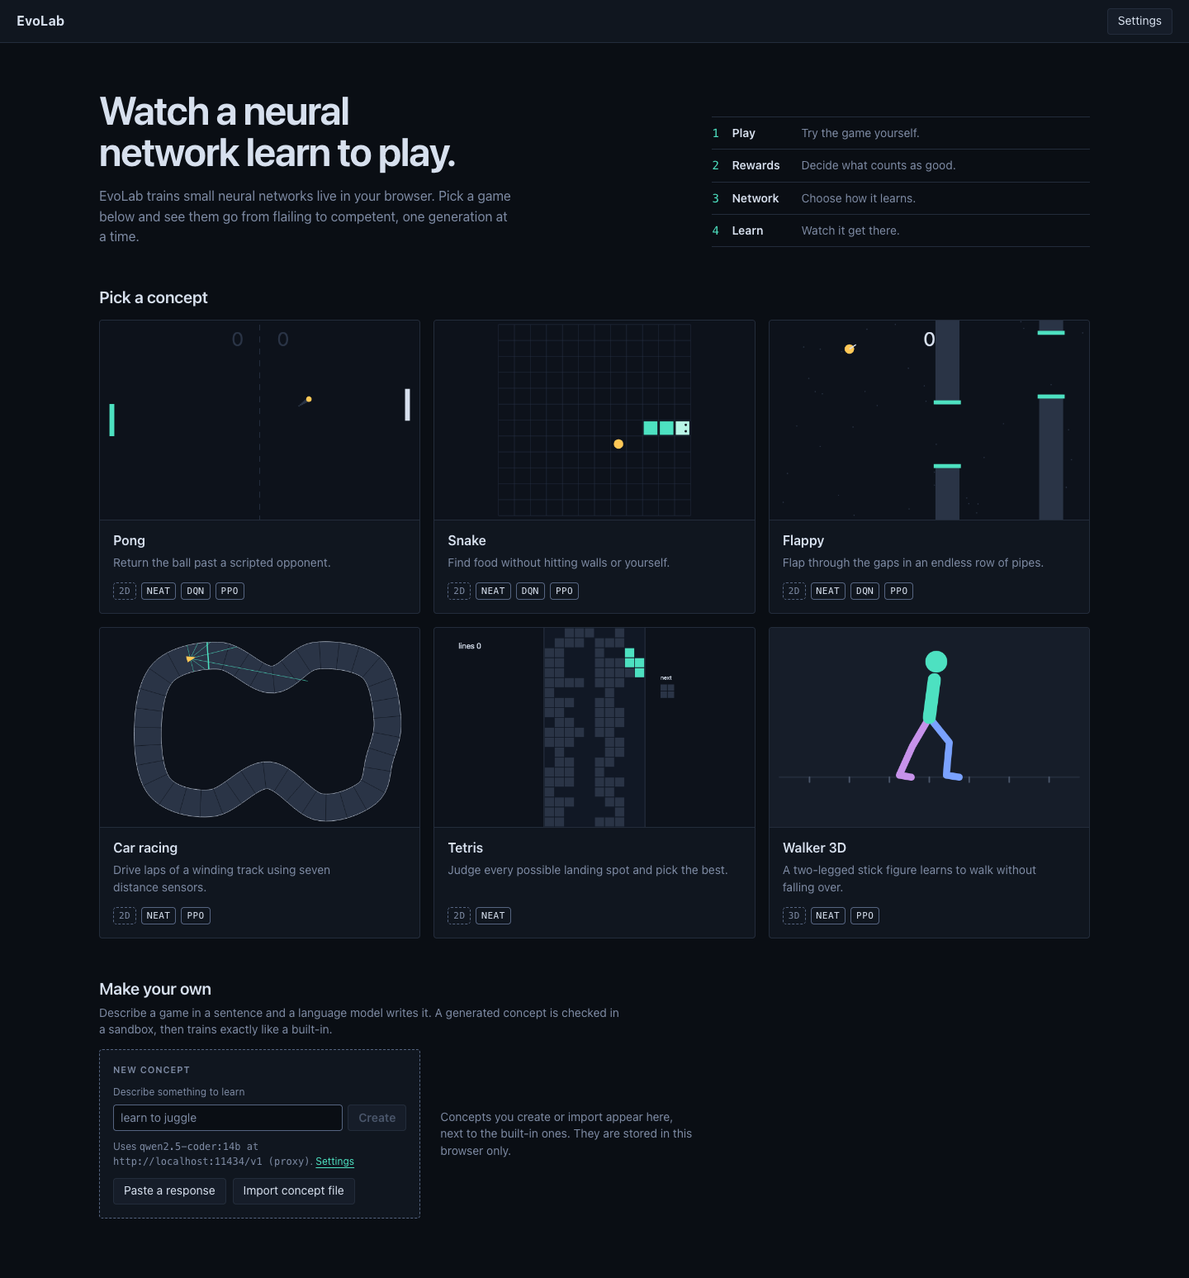
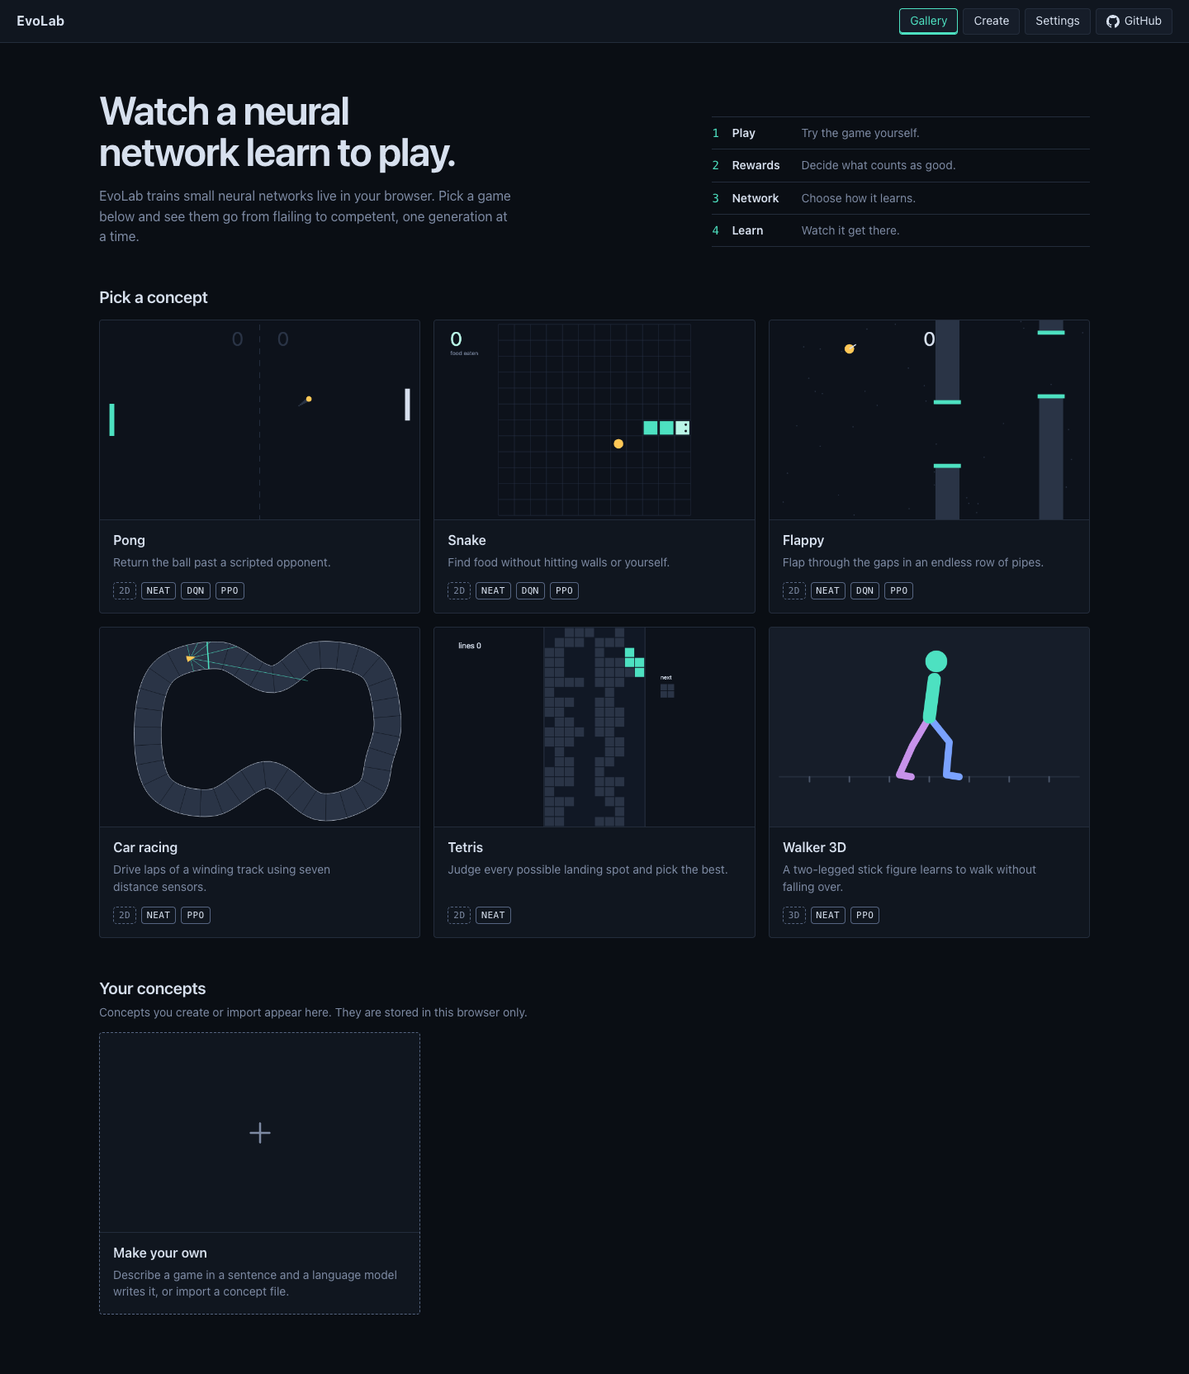
feat(ui): "Make your own" moves to its own Create page
- New route #/create with the new-concept form (generate, paste, import); all data-testids unchanged.
- Shared top nav (Gallery, Create, Settings, GitHub) with aria-current on the open page.
- Gallery keeps built-in and generated cards and gains a "Make your own" card linking to #/create.
- e2e flows start from #/create; new e2e for the tab, the gallery card and reload; README and screenshots updated.

diff --git a/src/ui/pages/gallery.ts b/src/ui/pages/gallery.ts
@@ -1,9 +1,8 @@
 import { listEnvs } from '../../env/registry';
 import { library, toConceptFile, type StoredConcept } from '../../gen/library';
-import { h, repoLink } from '../dom';
-import { createNewConceptPanel } from '../panels/newConcept';
+import { h, topNav } from '../dom';
 import { showSource } from '../panels/sourceModal';
-import { formatRoute, type PageFn } from '../router';
+import type { PageFn } from '../router';
 import { drawInitials, drawThumbnail } from '../thumbnail';
 
 function download(name: string, text: string): void {
@@ -36,6 +35,17 @@ function generatedCard(c: StoredConcept, onDeleted: () => void): HTMLElement {
       } }, 'Delete')));
 }
 
+/** The way to the Create page, shaped like the concepts it sits beside. */
+function createCard(): HTMLElement {
+  const thumb = h('div', { class: 'card-thumb card-create-thumb', 'aria-hidden': 'true' });
+  thumb.innerHTML = '<svg viewBox="0 0 24 24" width="40" height="40" fill="none" stroke="currentColor" stroke-width="1.5" stroke-linecap="round"><path d="M12 5v14M5 12h14"/></svg>';
+  return h('a', { class: 'card card-create', href: '#/create', testid: 'card-create' },
+    thumb,
+    h('div', { class: 'card-body' },
+      h('h2', null, 'Make your own'),
+      h('p', null, 'Describe a game in a sentence and a language model writes it, or import a concept file.')));
+}
+
 export const galleryPage: PageFn = (root) => {
   let gone = false;
   const cards = listEnvs().filter((d) => !d.meta.hidden).map((def) => {
@@ -52,25 +62,21 @@ export const galleryPage: PageFn = (root) => {
   });
   const grid = h('div', { class: 'card-grid' }, ...cards);
   const libraryError = h('p', { class: 'errors-line', role: 'alert' });
-  const ownEmpty = h('p', { class: 'own-empty' }, 'Concepts you create or import appear here, next to the built-in ones. They are stored in this browser only.');
-  const ownGrid = h('div', { class: 'card-grid own-grid' },
-    createNewConceptPanel((id) => { location.hash = formatRoute({ page: 'concept', envId: id, step: 1 }); }), ownEmpty);
+  const ownGrid = h('div', { class: 'card-grid' }, createCard());
   let generated: HTMLElement[] = [];
   const refresh = () => library.list().then((list) => {
     if (gone) return;
     for (const el of generated) el.remove();
     generated = list.map((c) => generatedCard(c, refresh));
-    ownEmpty.hidden = generated.length > 0;
     ownGrid.append(...generated);
-  }, () => { ownEmpty.hidden = true; libraryError.textContent = 'Generated concepts are unavailable: this browser blocks IndexedDB.'; });
+  }, () => { libraryError.textContent = 'Generated concepts are unavailable: this browser blocks IndexedDB.'; });
   void refresh();
 
   const steps: [string, string][] = [['Play', 'Try the game yourself.'], ['Rewards', 'Decide what counts as good.'], ['Network', 'Choose how it learns.'], ['Learn', 'Watch it get there.']];
   root.append(h('div', { class: 'page', testid: 'gallery' },
     h('header', { class: 'topbar' },
       h('a', { class: 'brand', href: '#/' }, 'EvoLab'),
-      h('a', { class: 'btn topbar-end', href: '#/settings', testid: 'nav-settings' }, 'Settings'),
-      repoLink()),
+      topNav('gallery')),
     h('main', { class: 'gallery' },
       h('section', { class: 'hero' },
         h('div', { class: 'hero-text' },
@@ -82,8 +88,8 @@ export const galleryPage: PageFn = (root) => {
         h('h2', { class: 'section-title' }, 'Pick a concept'),
         grid),
       h('section', { class: 'gallery-section' },
-        h('h2', { class: 'section-title' }, 'Make your own'),
-        h('p', { class: 'section-note' }, 'Describe a game in a sentence and a language model writes it. A generated concept is checked in a sandbox, then trains exactly like a built-in.'),
+        h('h2', { class: 'section-title' }, 'Your concepts'),
+        h('p', { class: 'section-note' }, 'Concepts you create or import appear here. They are stored in this browser only.'),
         libraryError, ownGrid))));
   return () => { gone = true; };
 };

diff --git a/src/ui/app.css b/src/ui/app.css
@@ -60,9 +60,14 @@ label.check { display: inline-flex; align-items: center; gap: 6px; cursor: point
   display: flex; align-items: center; gap: 8px 16px; flex-wrap: wrap; min-height: 52px;
   padding: 8px var(--pad); border-bottom: 1px solid var(--line); background: var(--panel);
 }
-.topbar-end { margin-left: auto; }
+.topnav { display: flex; align-items: center; gap: 6px; margin-left: auto; }
+.topnav [aria-current="page"] { border-color: var(--accent); color: var(--accent); box-shadow: inset 0 -2px 0 var(--accent); }
 .repo-link svg { flex: none; }
-@media (max-width: 720px) { .repo-link { min-width: 44px; } .repo-link span { display: none; } }
+/* Narrow bars: the brand already leads to the gallery, so its tab gives way to the page name. */
+@media (max-width: 720px) {
+  .repo-link { min-width: 44px; } .repo-link span { display: none; }
+  .topnav { gap: 4px; } .topnav .btn { padding: 4px 8px; } .topnav .nav-home { display: none; }
+}
 .brand { font-weight: 700; font-size: var(--fs-lead); letter-spacing: 0.02em; color: var(--text); text-decoration: none; }
 .brand:hover { color: var(--accent); }
 .crumb { display: flex; align-items: baseline; gap: 8px; font-size: var(--fs-lead); min-width: 0; }
@@ -92,8 +97,6 @@ label.check { display: inline-flex; align-items: center; gap: 6px; cursor: point
 .section-title { font-size: var(--fs-title); letter-spacing: -0.01em; }
 .section-note { margin-top: -8px; max-width: 72ch; color: var(--muted); }
 .card-grid { display: grid; grid-template-columns: repeat(3, minmax(0, 1fr)); gap: 16px; }
-.own-grid { align-items: start; }
-.own-empty { align-self: center; padding: 0 8px; max-width: 40ch; color: var(--muted); }
 @media (max-width: 960px) {
   .hero { grid-template-columns: minmax(0, 1fr); padding-top: 36px; }
   .card-grid { grid-template-columns: repeat(2, minmax(0, 1fr)); }
@@ -305,6 +308,7 @@ fieldset.weights legend { padding: 0 6px; font-size: var(--fs-small); color: var
 
 /* Settings */
 .settings { width: 100%; max-width: 760px; margin: 0 auto; padding: 32px var(--pad) 72px; display: flex; flex-direction: column; gap: 16px; }
+.page-note { max-width: 72ch; color: var(--muted); }
 .form { display: flex; flex-direction: column; gap: 14px; }
 .form > h3 { margin: 0; }
 .form-field { display: flex; flex-direction: column; gap: 6px; }
@@ -330,8 +334,9 @@ fieldset.weights legend { padding: 0 6px; font-size: var(--fs-small); color: var
 .new-concept { padding: 16px; gap: 10px; border-style: dashed; border-color: var(--line-strong); overflow: visible; }
 .new-concept:hover { border-color: var(--line-strong); }
 .new-concept:focus-within { border-color: var(--accent); }
-/* Errors and the paste block need room: the panel takes a whole row instead of stretching its neighbours. */
-.new-concept:has(.gen-manual:not([hidden])), .new-concept:has(.gen-errors:not(:empty)) { grid-column: 1 / -1; }
+.card-create { border-style: dashed; border-color: var(--line-strong); }
+.card-create-thumb { display: grid; place-items: center; color: var(--muted); transition: color 150ms var(--ease); }
+.card-create:hover .card-create-thumb, .card-create:focus-visible .card-create-thumb { color: var(--accent); }
 .gen-form { display: flex; flex-direction: column; gap: 6px; }
 .gen-form label { font-size: var(--fs-small); color: var(--muted); }
 .gen-row { display: flex; gap: 6px; }

diff --git a/tests/e2e/smoke.spec.ts b/tests/e2e/smoke.spec.ts
@@ -2,7 +2,7 @@ import { expect, test } from '@playwright/test';
 import { JOURNEY_ENVS } from './envs';
 import { collectErrors } from './helpers';
 
-test('gallery lists the six built-in concepts and the new-concept box', async ({ page }) => {
+test('gallery lists the six built-in concepts and the way to make your own', async ({ page }) => {
   const errors = collectErrors(page);
   await page.goto('/');
   await expect(page.getByTestId('gallery')).toBeVisible();
@@ -11,9 +11,33 @@ test('gallery lists the six built-in concepts and the new-concept box', async ({
     await expect(card.locator('h2')).toHaveText(env.name);
     await expect(card.locator('.badge-dim')).toHaveText(env.dims.toUpperCase());
   }
-  await expect(page.locator('a.card')).toHaveCount(JOURNEY_ENVS.length);          // reach1d stays hidden
-  await expect(page.getByTestId('new-concept')).toBeVisible();
+  await expect(page.locator('a.card:not([data-testid="card-create"])')).toHaveCount(JOURNEY_ENVS.length);          // reach1d stays hidden
+  await expect(page.getByTestId('nav-gallery')).toHaveAttribute('aria-current', 'page');
   await page.getByTestId('nav-settings').click();
   await expect(page.getByTestId('settings')).toBeVisible();
+  await expect(page.getByTestId('nav-settings')).toHaveAttribute('aria-current', 'page');
+  expect(errors).toEqual([]);
+});
+
+test('"Make your own" lives on its own page: nav tab, gallery card, reload', async ({ page }) => {
+  const errors = collectErrors(page);
+  await page.goto('/');
+  await expect(page.getByTestId('gallery')).toBeVisible();
+  await expect(page.getByTestId('new-concept-input')).toHaveCount(0);
+  await expect(page.getByTestId('concept-import')).toHaveCount(0);
+  await page.getByTestId('nav-create').click();
+  await expect(page).toHaveURL(/#\/create$/);
+  await expect(page.getByRole('heading', { level: 1 })).toHaveText('Make your own');
+  await expect(page.getByTestId('nav-create')).toHaveAttribute('aria-current', 'page');
+  await expect(page.getByTestId('nav-gallery')).not.toHaveAttribute('aria-current');
+  for (const id of ['new-concept-input', 'new-concept-submit', 'new-concept-paste', 'concept-import']) await expect(page.getByTestId(id)).toBeAttached();
+  await expect(page.getByTestId('new-concept-input')).toBeVisible();
+  await page.reload();
+  await expect(page).toHaveURL(/#\/create$/);
+  await expect(page.getByTestId('new-concept-input')).toBeVisible();
+  await page.getByTestId('nav-gallery').click();
+  await page.getByTestId('card-create').click();
+  await expect(page).toHaveURL(/#\/create$/);
+  await expect(page.getByTestId('new-concept')).toBeVisible();
   expect(errors).toEqual([]);
 });

diff --git a/src/ui/dom.ts b/src/ui/dom.ts
@@ -16,13 +16,21 @@ export function h<K extends keyof HTMLElementTagNameMap>(tag: K, props?: Record<
 }
 
 /** Top-bar link to the source repository; opens in a new tab. */
-export function repoLink(end = false): HTMLAnchorElement {
+function repoLink(): HTMLAnchorElement {
   const a = h('a', {
-    class: end ? 'btn repo-link topbar-end' : 'btn repo-link', href: 'https://github.com/LaansDole/evolab', target: '_blank', rel: 'noopener noreferrer',
+    class: 'btn repo-link', href: 'https://github.com/LaansDole/evolab', target: '_blank', rel: 'noopener noreferrer',
     'aria-label': 'EvoLab on GitHub', testid: 'nav-repo',
   });
   a.innerHTML = '<svg viewBox="0 0 16 16" width="16" height="16" fill="currentColor" aria-hidden="true"><path d="M8 0C3.58 0 0 3.58 0 8c0 3.54 2.29 6.53 5.47 7.59.4.07.55-.17.55-.38 0-.19-.01-.82-.01-1.49-2.01.37-2.53-.49-2.69-.94-.09-.23-.48-.94-.82-1.13-.28-.15-.68-.52-.01-.53.63-.01 1.08.58 1.23.82.72 1.21 1.87.87 2.33.66.07-.52.28-.87.51-1.07-1.78-.2-3.64-.89-3.64-3.95 0-.87.31-1.59.82-2.15-.08-.2-.36-1.02.08-2.12 0 0 .67-.21 2.2.82.64-.18 1.32-.27 2-.27s1.36.09 2 .27c1.53-1.04 2.2-.82 2.2-.82.44 1.1.16 1.92.08 2.12.51.56.82 1.27.82 2.15 0 3.07-1.87 3.75-3.65 3.95.29.25.54.73.54 1.48 0 1.07-.01 1.93-.01 2.2 0 .21.15.46.55.38A8.01 8.01 0 0 0 16 8c0-4.42-3.58-8-8-8z"/></svg><span>GitHub</span>';
   return a;
+}
+
+/** The tabs that end every top bar; the page that is open carries `aria-current`. */
+export function topNav(active?: 'gallery' | 'create' | 'settings'): HTMLElement {
+  const tab = (id: string, href: string, label: string) =>
+    h('a', { class: id === 'gallery' ? 'btn nav-home' : 'btn', href, testid: `nav-${id}`, 'aria-current': active === id && 'page' }, label);
+  return h('nav', { class: 'topnav', 'aria-label': 'Main' },
+    tab('gallery', '#/', 'Gallery'), tab('create', '#/create', 'Create'), tab('settings', '#/settings', 'Settings'), repoLink());
 }
 
 /** Compact number for readouts: 1 decimal below 100, none above, "4.1k" above 1000. */

diff --git a/src/ui/pages/settings.ts b/src/ui/pages/settings.ts
@@ -1,6 +1,6 @@
 import { listModels } from '../../gen/llm';
 import { PRESETS, isLocalUrl, loadSettings, resolveMode, saveSettings, validateSettings, type LlmSettings } from '../../gen/settings';
-import { h, repoLink } from '../dom';
+import { h, topNav } from '../dom';
 import type { PageFn } from '../router';
 
 export const settingsPage: PageFn = (root) => {
@@ -19,7 +19,7 @@ export const settingsPage: PageFn = (root) => {
     h('ul', null,
       h('li', null, 'Ollama: start it with ', h('code', null, `OLLAMA_ORIGINS=${origin} ollama serve`)),
       h('li', null, 'LM Studio: Developer > Local Server > enable CORS')),
-    h('p', null, 'If the call is still blocked, use "Paste a response" in the gallery: copy the prompt into any chat model and paste its answer back.'));
+    h('p', null, 'If the call is still blocked, use "Paste a response" on the ', h('a', { href: '#/create' }, 'Create'), ' page: copy the prompt into any chat model and paste its answer back.'));
   const proxyNote = h('p', { class: 'field-help', testid: 'settings-direct-csp', hidden: true },
     'This server offers the proxy, and its security policy blocks direct calls from the page. Use Automatic or Proxy here.');
   const warning = h('div', { class: 'note note-warn', testid: 'settings-remote-warning', role: 'status', hidden: true },
@@ -65,9 +65,8 @@ export const settingsPage: PageFn = (root) => {
 
   root.append(h('div', { class: 'page', testid: 'settings' },
     h('header', { class: 'topbar' },
-      h('div', { class: 'crumb' }, h('a', { class: 'brand', href: '#/' }, 'EvoLab'), h('span', { class: 'sep' }, '/'), h('span', { class: 'here' }, 'Settings')),
-      h('a', { class: 'btn topbar-end', href: '#/' }, 'Back to the gallery'),
-      repoLink()),
+      h('a', { class: 'brand', href: '#/' }, 'EvoLab'),
+      topNav('settings')),
     h('main', { class: 'settings' },
       h('h1', null, 'Settings'),
       h('section', { class: 'panel form' },

diff --git a/src/ui/router.ts b/src/ui/router.ts
@@ -1,12 +1,12 @@
 export type Step = 1 | 2 | 3 | 4;
-export type Route = { page: 'gallery' } | { page: 'concept'; envId: string; step: Step } | { page: 'settings' };
+export type Route = { page: 'gallery' } | { page: 'concept'; envId: string; step: Step } | { page: 'settings' } | { page: 'create' };
 /** Returns an unmount function. A concept page may attach `onStep` to it: step-only changes then call it instead of remounting. */
 export type PageFn = (root: HTMLElement, route: Route) => (() => void) | void;
 type Unmount = (() => void) & { onStep?(step: Step): void };
 
 export function parseRoute(hash: string): Route {
   const parts = hash.replace(/^#\/?/, '').split('/').filter(Boolean);
-  if (parts[0] === 'settings' && parts.length === 1) return { page: 'settings' };
+  if ((parts[0] === 'settings' || parts[0] === 'create') && parts.length === 1) return { page: parts[0] };
   if (parts[0] === 'c' && parts[1] && /^[a-z][a-z0-9-]*$/.test(parts[1])) {
     const n = Number(parts[2] ?? 1);
     return { page: 'concept', envId: parts[1], step: n === 2 || n === 3 || n === 4 ? n : 1 };
@@ -15,10 +15,10 @@ export function parseRoute(hash: string): Route {
 }
 
 export function formatRoute(r: Route): string {
-  return r.page === 'concept' ? `#/c/${r.envId}/${r.step}` : r.page === 'settings' ? '#/settings' : '#/';
+  return r.page === 'concept' ? `#/c/${r.envId}/${r.step}` : r.page === 'gallery' ? '#/' : `#/${r.page}`;
 }
 
-export function startRouter(root: HTMLElement, pages: { gallery: PageFn; concept: PageFn; settings: PageFn }): void {
+export function startRouter(root: HTMLElement, pages: Record<Route['page'], PageFn>): void {
   let current: Route | null = null, unmount: Unmount | void;
   const render = () => {
     const next = parseRoute(location.hash);

diff --git a/src/ui/pages/concept.ts b/src/ui/pages/concept.ts
@@ -3,7 +3,7 @@ import { library, type StoredConcept } from '../../gen/library';
 import { iterationLabel } from '../../learner/types';
 import { resolveConfig } from '../../learner/config';
 import { loadRunPrefs, type RunPrefs } from '../../persist/storage';
-import { h, repoLink } from '../dom';
+import { h, topNav } from '../dom';
 import { createPlayPanel } from '../panels/play';
 import { createLearnPanel } from '../panels/learn';
 import { createNetworkPanel } from '../panels/network';
@@ -35,7 +35,7 @@ type Unmount = (() => void) & { onStep(step: Step): void };
 
 function unknownConcept(root: HTMLElement): void {
   root.append(h('div', { class: 'page' },
-    h('header', { class: 'topbar' }, h('a', { class: 'brand', href: '#/' }, 'EvoLab'), repoLink(true)),
+    h('header', { class: 'topbar' }, h('a', { class: 'brand', href: '#/' }, 'EvoLab'), topNav()),
     h('main', { class: 'gallery' },
       h('div', { class: 'empty-state' },
         h('h1', null, 'This concept does not exist'),
@@ -79,8 +79,7 @@ function mount(root: HTMLElement, name: string, ref: EnvRef, firstStep: Step, co
         concept && h('span', { class: 'badge badge-gen', testid: 'badge-generated' }, 'generated')),
       h('nav', { class: 'stepper', 'aria-label': 'Steps' }, h('ol', null, ...buttons.map((b) => h('li', null, b)))),
       concept && h('button', { type: 'button', testid: 'view-source', onclick: () => showSource(concept) }, 'View source'),
-      h('a', { class: 'btn', href: '#/settings', testid: 'nav-settings' }, 'Settings'),
-      repoLink()),
+      topNav()),
     banner,
     h('main', { class: 'concept' }, h('div', { class: 'cols' }, stage.el, side), lower)));
 

diff --git a/tests/e2e/screenshots.spec.ts b/tests/e2e/screenshots.spec.ts
@@ -32,11 +32,13 @@ test.describe('visual acceptance screenshots', () => {
   test.use({ viewport: { width: 1440, height: 900 } });
   test.beforeAll(() => { mkdirSync(DIR, { recursive: true }); });
 
-  test('01 gallery, 16 settings', async ({ page }) => {
+  test('01 gallery, 17 create, 16 settings', async ({ page }) => {
     await page.goto('/');
-    await expect(page.locator('a.card')).toHaveCount(6);
-    await expect(page.getByTestId('new-concept')).toBeVisible();
+    await expect(page.locator('a.card')).toHaveCount(7);          // six built-ins and the "Make your own" card
     await shot(page, '01-gallery');
+    await page.getByTestId('nav-create').click();
+    await expect(page.getByTestId('new-concept')).toBeVisible();
+    await shot(page, '17-create');
     await page.getByTestId('nav-settings').click();
     await expect(page.getByTestId('settings-base-url')).toHaveValue('http://localhost:11434/v1');
     await expect(page.getByTestId('settings-remote-warning')).toBeHidden();
@@ -127,7 +129,7 @@ test.describe('visual acceptance screenshots', () => {
   });
 
   test('15 generated concept', async ({ page }) => {
-    await page.goto('/');
+    await page.goto('/#/create');
     await page.getByTestId('new-concept-paste').click();
     await page.getByTestId('new-concept-paste-input').fill(toResponse(GOOD));
     await page.getByTestId('new-concept-paste-submit').click();

diff --git a/tests/e2e/static.spec.ts b/tests/e2e/static.spec.ts
@@ -40,7 +40,7 @@ test('the build ships the physics engine once', () => {
 test('static sub-path build: gallery, a 2D concept trains, a champion replays', async ({ page }) => {
   const errors = collectErrors(page);
   await page.goto(`${origin}/evolab/`);
-  await expect(page.locator('a.card')).toHaveCount(6);
+  await expect(page.locator('a.card')).toHaveCount(7);          // six built-ins and the "Make your own" card
   await page.getByTestId('card-pong').click();
   await waitFrames(page, 10);
   await startTraining(page);
@@ -83,7 +83,9 @@ test('static sub-path build: direct LLM mode and a pasted concept that trains in
     await page.getByTestId('settings-test').click();
     await expect(page.getByTestId('settings-test-result')).toContainText('Connected');
   } finally { await llm.close(); }
-  await page.goto(`${origin}/evolab/`);
+  await page.goto(`${origin}/evolab/#/create`);
+  await page.reload();                                       // a deep link survives a reload on a static host
+  await expect(page.getByTestId('nav-create')).toHaveAttribute('aria-current', 'page');
   await page.getByTestId('new-concept-paste').click();
   await page.getByTestId('new-concept-paste-input').fill(toResponse(GOOD));
   await page.getByTestId('new-concept-paste-submit').click();

diff --git a/src/ui/panels/newConcept.ts b/src/ui/panels/newConcept.ts
@@ -12,7 +12,7 @@ const validate = (source: string, meta: unknown) => validateInWorker(spawnValida
 const message = (e: unknown) => (e instanceof Error ? e.message : String(e));
 
 /**
- * The gallery's first cell: describe a concept and let the configured LLM write it, or paste a model's answer / import a file.
+ * The Create page's form: describe a concept and let the configured LLM write it, or paste a model's answer / import a file.
  * Every path ends in the worker-side validator; nothing here needs a server besides the optional LLM call.
  */
 export function createNewConceptPanel(onCreated: (id: string) => void): HTMLElement {
@@ -62,7 +62,7 @@ export function createNewConceptPanel(onCreated: (id: string) => void): HTMLElem
     let id = slugId(meta.name, Math.random);
     while (await library.get(id)) id = slugId(meta.name, Math.random);
     await library.put({ id, name: meta.name, prompt, meta, source, model, createdAt });
-    if (el.isConnected) onCreated(id);          // the user may have left the gallery while the model was thinking
+    if (el.isConnected) onCreated(id);          // the user may have left the page while the model was thinking
   };
 
   input.addEventListener('input', sync);

diff --git a/tests/e2e/generated.spec.ts b/tests/e2e/generated.spec.ts
@@ -15,7 +15,7 @@ test('concept from text: repair once, then play, train, and find it in the galle
     await expect(page.getByTestId('settings-mode-active')).toContainText('proxy');
     await page.getByTestId('settings-test').click();
     await expect(page.getByTestId('settings-test-result')).toContainText('Connected');
-    await page.goto('/');
+    await page.goto('/#/create');
     await page.getByTestId('new-concept-input').fill('slide a dot onto a target');
     await page.getByTestId('new-concept-submit').click();
     await expect(page.getByTestId('new-concept-log')).toContainText('repairing 1/3', { timeout: 30000 });
@@ -45,7 +45,7 @@ test('concept from text: repair once, then play, train, and find it in the galle
 });
 
 test('manual paste fallback, view source, export, delete; hung modules time out', async ({ page }) => {
-  await page.goto('/');
+  await page.goto('/#/create');
   await page.getByTestId('new-concept-paste').click();
   await page.getByTestId('new-concept-paste-input').fill(toResponse(INFINITE_LOOP));
   await page.getByTestId('new-concept-paste-submit').click();

diff --git a/src/ui/pages/create.ts b/src/ui/pages/create.ts
@@ -1,0 +1,15 @@
+import { h, topNav } from '../dom';
+import { createNewConceptPanel } from '../panels/newConcept';
+import { formatRoute, type PageFn } from '../router';
+
+export const createPage: PageFn = (root) => {
+  root.append(h('div', { class: 'page', testid: 'create' },
+    h('header', { class: 'topbar' },
+      h('a', { class: 'brand', href: '#/' }, 'EvoLab'),
+      topNav('create')),
+    h('main', { class: 'settings' },
+      h('h1', null, 'Make your own'),
+      h('p', { class: 'page-note' }, 'Describe a game in a sentence and a language model writes it. A generated concept is checked in a sandbox, then trains exactly like a built-in.'),
+      createNewConceptPanel((id) => { location.hash = formatRoute({ page: 'concept', envId: id, step: 1 }); }),
+      h('p', { class: 'page-note' }, 'Concepts you create or import appear in the ', h('a', { href: '#/' }, 'gallery'), ', next to the built-in ones. They are stored in this browser only.'))));
+};
